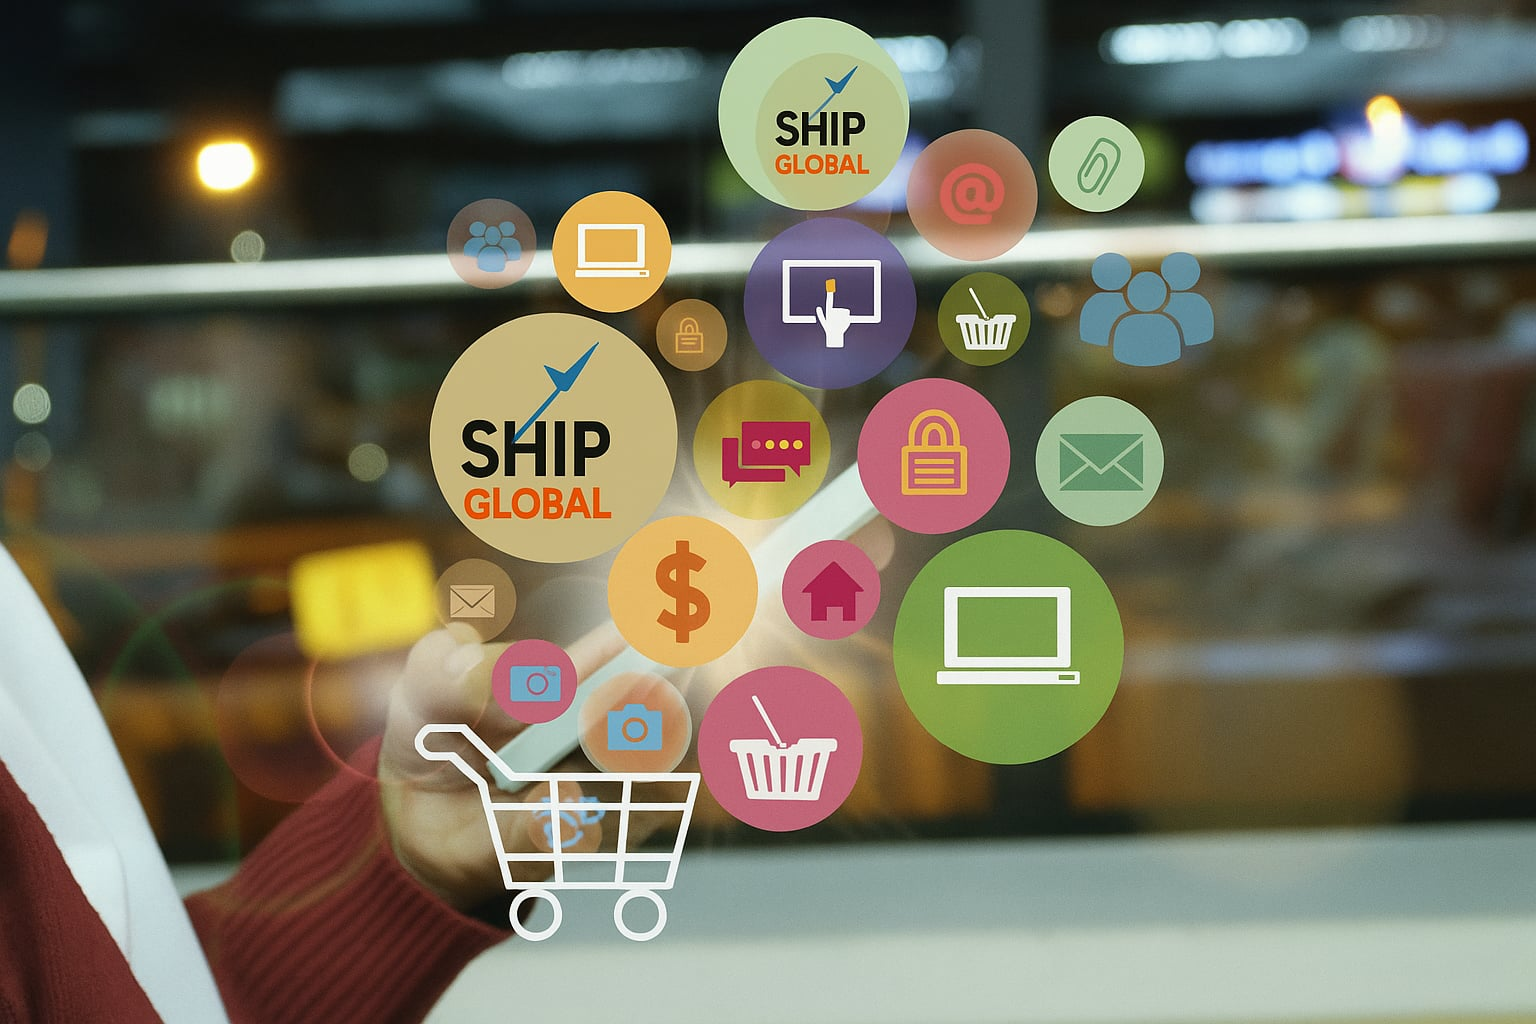
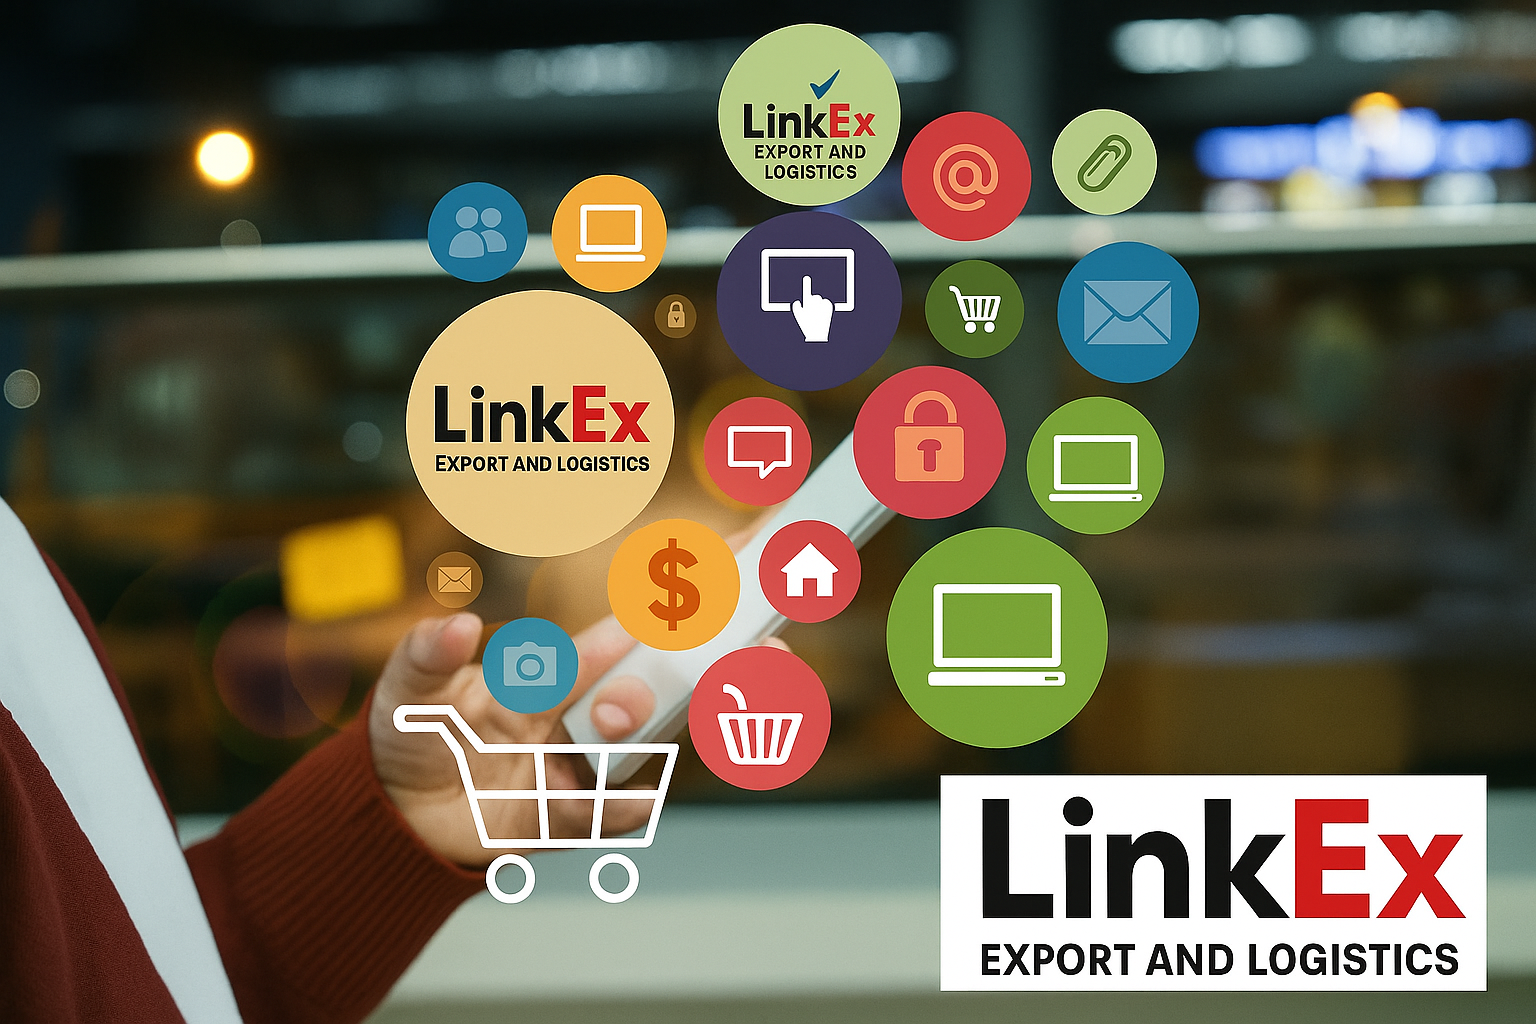
Update color scheme to use #ED1C24 for secondary and accent colors across stylesheets and templates; adjust navbar layout for better responsiveness; add new image assets.

diff --git a/templates/base.html b/templates/base.html
@@ -110,7 +110,7 @@
                 flex-shrink: 0;
             }
             
-            /* Desktop: hide row-2 on larger screens, show inline */
+            /* Desktop: Layout adjustment */
             @media (min-width: 769px) {
                 /* Scale desktop view to 90% for better space utilization */
                 body {
@@ -121,22 +121,30 @@
                 
                 .navbar {
                     display: flex;
+                    flex-direction: row;
                     align-items: center;
                     gap: 20px;
+                    flex-wrap: nowrap;
                 }
                 
                 .navbar-row-1 {
+                    display: flex;
                     flex: 0 0 auto;
+                    align-items: center;
+                    gap: 10px;
                 }
                 
                 .navbar-row-2 {
+                    display: flex;
                     flex: 1;
                     padding: 0;
                     margin: 0 20px;
+                    visibility: visible !important;
                 }
                 
                 .navbar-search-form {
                     max-width: 500px;
+                    display: flex !important;
                 }
             }
             
@@ -352,7 +360,7 @@
                         },
                         colors: {
                             primary: "#10345A",
-                            secondary: "#ea4431",
+                            secondary: "#ED1C24",
                             active: "#14579E",
                         },
                     },

diff --git a/apps/accounts/templates/accounts/auth/login.html b/apps/accounts/templates/accounts/auth/login.html
@@ -22,7 +22,7 @@
           
           #id_captcha_1:focus {
             outline: none;
-            border-color: #371247; /* your custom brand color */
+            border-color: #ea4431; /* your custom brand color */
             box-shadow: 0 0 0 3px rgba(55, 18, 71, 0.3); /* a subtle focus ring */
           }
       </style>
@@ -79,7 +79,7 @@
                         </div>
 
                         <!-- Submit Button -->
-                        <button type="submit" class="w-full bg-[#371247] text-white py-3 rounded-md hover:bg-blue-700 focus:outline-none" id="login-btn">Login</button>
+                        <button type="submit" class="w-full bg-[#ea4431] text-white py-3 rounded-md hover:bg-blue-700 focus:outline-none" id="login-btn">Login</button>
                         
                         <!-- Hidden field to store the reCAPTCHA token -->
                         <input type="hidden" id="g-recaptcha-response" name="g-recaptcha-response">

diff --git a/templates/homebase.html b/templates/homebase.html
@@ -21,7 +21,7 @@
         theme: {
           extend: {
             colors: {
-              primary: "#ea4431",
+              primary: "#ED1C24",
               "primary-dark": "#c83826",
               "primary-light": "#ed6452",
               "primary-lighter": "#f18473",
@@ -33,7 +33,7 @@
               "tertiary-dark": "#144668",
               "tertiary-light": "#2D6BAD",
               "tertiary-lighter": "#407DC0",
-              accent: "#ea4431",
+              accent: "#ED1C24",
               "accent-dark": "#c83826",
               "accent-light": "#ed6452",
             },
@@ -245,7 +245,7 @@
     {% endblock %}
 
     <!-- Footer -->
-    <footer class="bg-tertiary text-white py-8 lg:py-10">
+    <footer class="bg-black text-white py-8 lg:py-10">
       <div class="container mx-auto px-4 sm:px-6 lg:px-14 max-w-7xl">
         <div class="grid grid-cols-1 sm:grid-cols-2 lg:grid-cols-4 gap-6 lg:gap-8">
           <!-- Company Info Column -->

diff --git a/static/assets/css/style.css b/static/assets/css/style.css
@@ -33,7 +33,7 @@ body {
   position: relative;
   z-index: 2;
   padding: 15px 20px;
-  background: #ea4431;
+  background: #ED1C24;
 }
 
 .nav-title {
@@ -43,7 +43,7 @@ body {
 
 .add-user-btn {
   font-family: "Poppins", sans-serif;
-  background: #ea4431;
+  background: #ED1C24;
   color: white;
   border: none;
   padding: 8px 15px;
@@ -168,7 +168,7 @@ body {
 }
 
 .menu-link:hover {
-  color: #ea4431;
+  color: #ED1C24;
   background: #e9ecef;
 }
 
@@ -227,7 +227,7 @@ body {
 
 .dropdown-content a:hover {
   background: #dadfe4;
-  color: #ea4431;
+  color: #ED1C24;
 }
 
 /* Accordion style in expanded sidebar */

diff --git a/staticfiles/assets/css/style.css b/staticfiles/assets/css/style.css
@@ -33,7 +33,7 @@ body {
   position: relative;
   z-index: 2;
   padding: 15px 20px;
-  background: #ea4431;
+  background: #ED1C24;
 }
 
 .nav-title {
@@ -43,7 +43,7 @@ body {
 
 .add-user-btn {
   font-family: "Poppins", sans-serif;
-  background: #ea4431;
+  background: #ED1C24;
   color: white;
   border: none;
   padding: 8px 15px;
@@ -168,7 +168,7 @@ body {
 }
 
 .menu-link:hover {
-  color: #ea4431;
+  color: #ED1C24;
   background: #e9ecef;
 }
 
@@ -227,7 +227,7 @@ body {
 
 .dropdown-content a:hover {
   background: #dadfe4;
-  color: #ea4431;
+  color: #ED1C24;
 }
 
 /* Accordion style in expanded sidebar */

diff --git a/static/assets/css/style.scss b/static/assets/css/style.scss
@@ -2,7 +2,7 @@
 
 // Variables
 $primary-color: #371248;
-$secondary-color: #ea4431;
+$secondary-color: #ED1C24;
 $sidebar-bg: #F8F9FA;
 $dropdown-bg: #e9ecef;
 $text-color: #333;

diff --git a/staticfiles/assets/css/style.scss b/staticfiles/assets/css/style.scss
@@ -2,7 +2,7 @@
 
 // Variables
 $primary-color: #371248;
-$secondary-color: #ea4431;
+$secondary-color: #ED1C24;
 $sidebar-bg: #F8F9FA;
 $dropdown-bg: #e9ecef;
 $text-color: #333;
